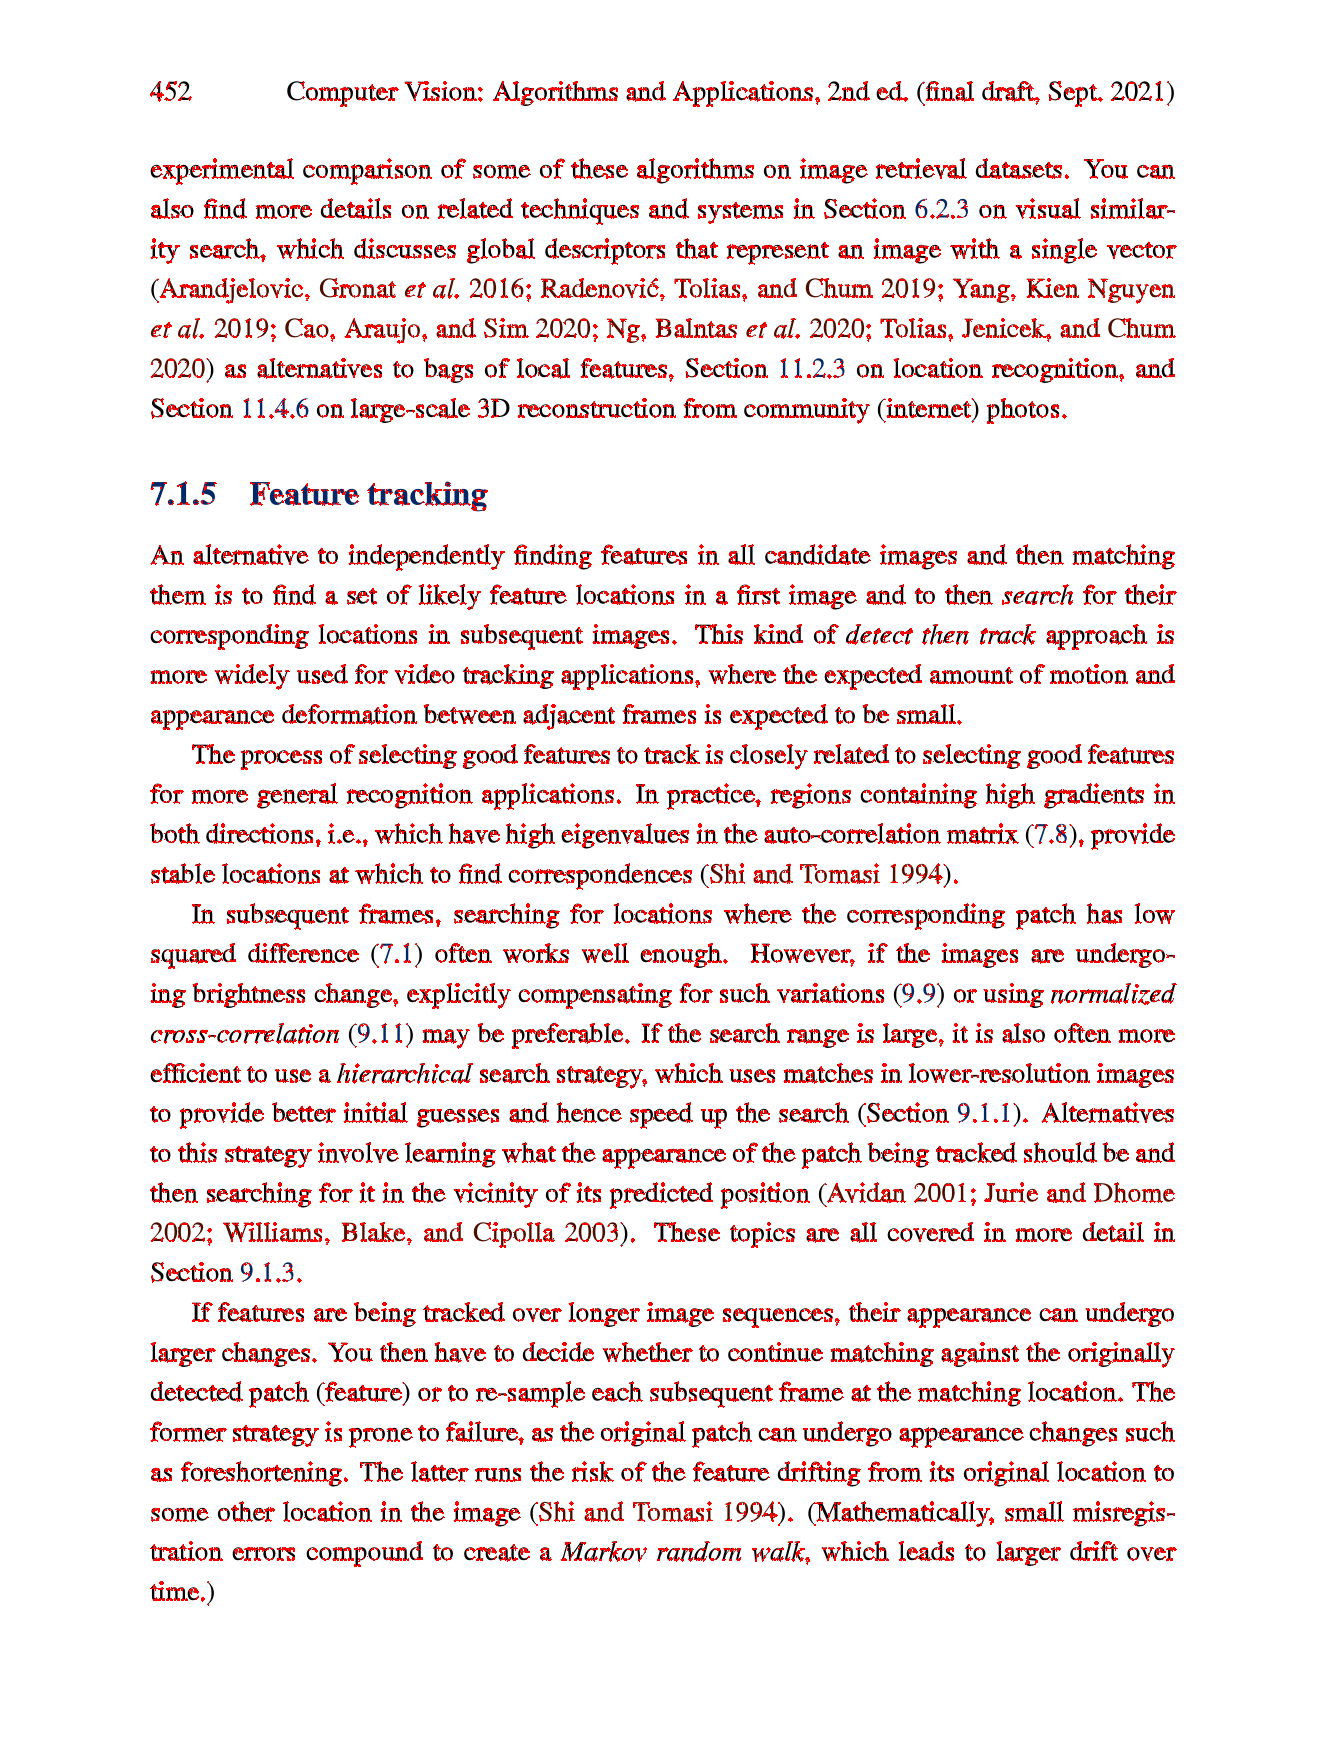
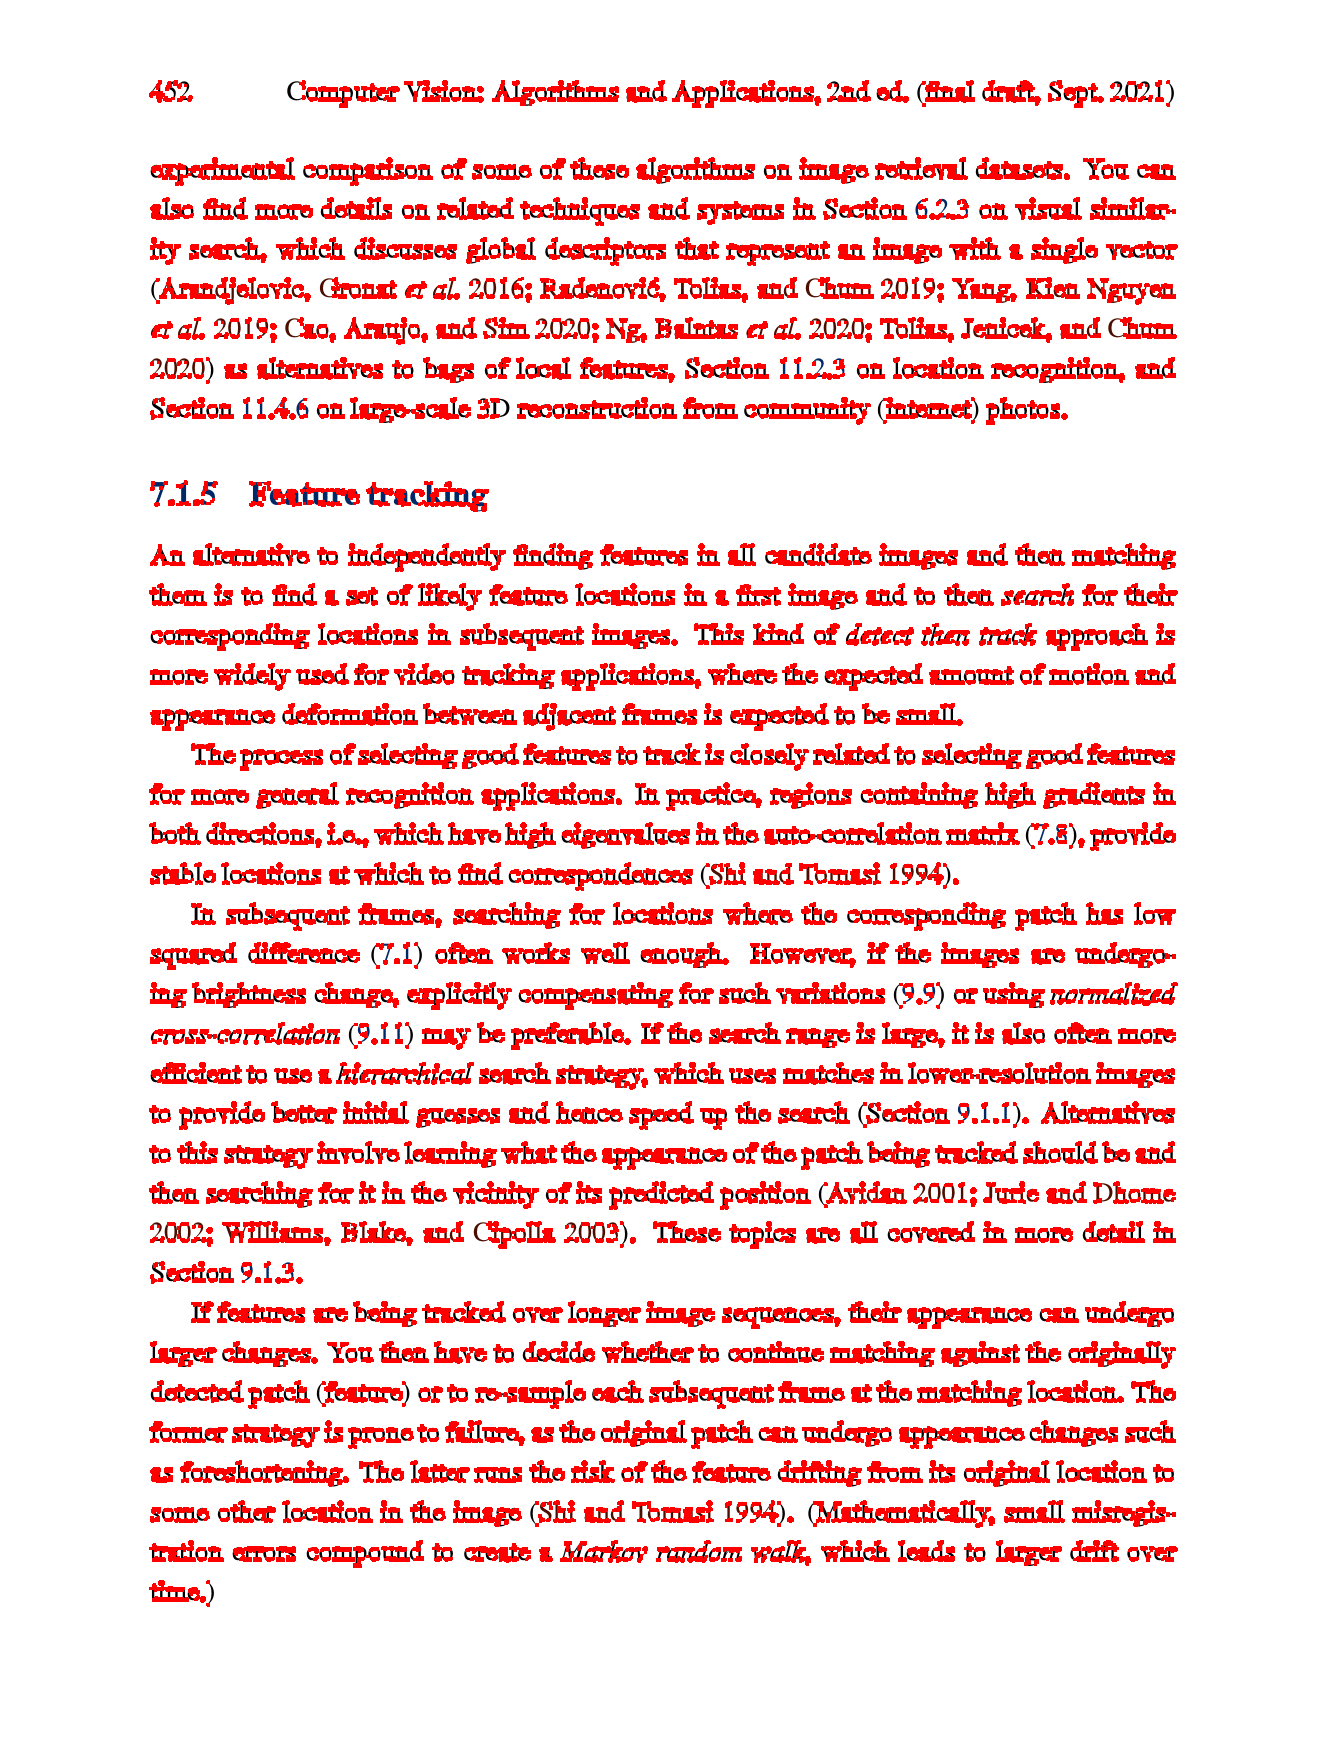
oppdatert funksjon med check om dir finnes, og fix hvor den oppdaterer feil image

diff --git a/assignment_4/main.py b/assignment_4/main.py
@@ -1,22 +1,28 @@
+import os
+
 import cv2
 import numpy as np
 
 def harris_corner_detection(reference_image):
-    gray = cv2.cvtColor(reference_image, cv2.COLOR_BGR2GRAY)
+    copy = reference_image.copy()
+    gray = cv2.cvtColor(copy, cv2.COLOR_BGR2GRAY)
 
     gray = np.float32(gray)
     dst = cv2.cornerHarris(gray, 2, 3, 0.04)
 
-    #dst = cv2.dilate(dst, None)
+    dst = cv2.dilate(dst, None)
 
     # threshold for an optimal value
-    reference_image[dst>0.01*dst.max()] = [0, 0, 255]
+    copy[dst>0.01*dst.max()] = [0, 0, 255]
 
-    cv2.imshow("dst", reference_image)
+    cv2.imshow("dst", copy)
     cv2.waitKey(0)
     cv2.destroyAllWindows()
 
-    cv2.imwrite("./results/harris.png", reference_image)
+    if os.path.isdir(os.getcwd() + "/results"):
+        cv2.imwrite("./results/harris.png", copy)
+    else:
+        print("Results folder not found")
 
 def main():
     img1 = cv2.imread("./reference_img.png")
